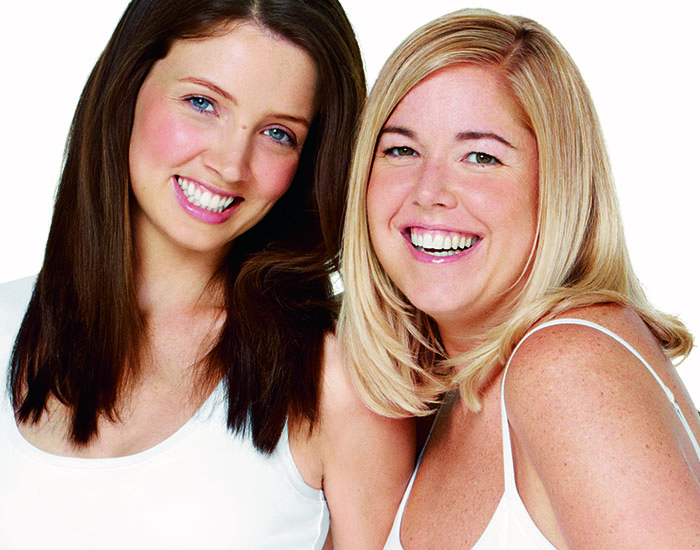
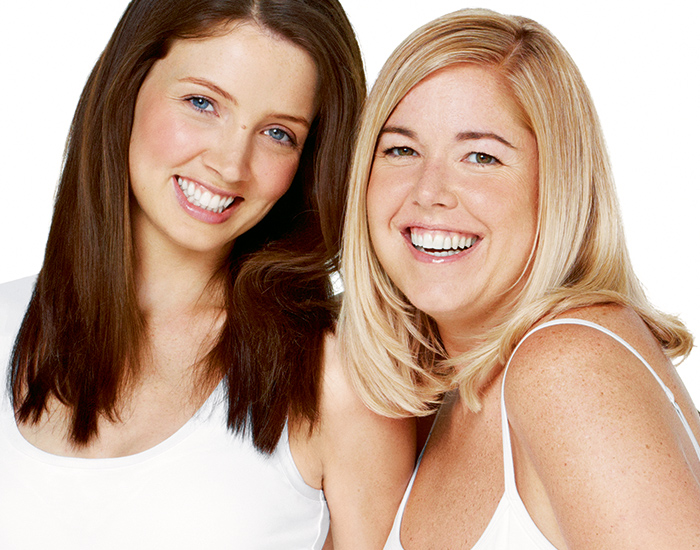
dove sustainability

diff --git a/src/pages/dove/sustainability.js b/src/pages/dove/sustainability.js
@@ -1,18 +1,32 @@
 import React from "react"
 import styled from 'styled-components'
 import SEO from '../../components/Seo/Seo'
-import DoveHeroImg from '../../assets/images/dove-hero-hp.jpg'
+import DoveSustainabilityHeroImg from '../../assets/images/dove-sustainability-hero.jpg'
+import DoveSustainabilityHeroImgMobile from '../../assets/images/dove-sustainability-hero-mobile.jpg'
 
 
 const Section = styled.section`
-    width:100%;
-    margin:auto;
-    padding-bottom:30px;
-    text-align: center;
+    max-width: 1200px;
+    margin:10px auto;
+    padding: 0 20px 30px;
 
-    @media (max-width: 692px) {
-      margin-bottom: -50px;
+    h1 {
+      margin: 30px 0 20px;
+      text-align: center;
+      color: #054281;
     }
+
+    h2 {
+      font-size: 1rem;
+      font-weight: bold;
+      color: #054281;
+    }
+
+    ul {
+      margin: 0 0 20px 20px;
+    }
+
+    
 `;
 
 const DoveHeroImage = styled.img`
@@ -21,21 +35,60 @@ const DoveHeroImage = styled.img`
     object-fit: cover;
 
     @media (max-width: 1200px) {
-        height: 400px;
+      height: 400px;
     }
 
     @media (max-width: 692px) {
-        margin-top: 50px;
+      margin-top: 50px;
+      content: url(${DoveSustainabilityHeroImgMobile});
+    }
+
+
+    
+`;
+
+const ImageSection = styled.div`
+  position: relative;
+
+  &:after {
+      content: '';
+      background-color: #fff;
+      position: absolute;
+      border-radius: 100%;
+      height: 80px;
+      width: 100%;
+      left: 50%;
+      transform: translateX(-50%);
+      bottom: -40px;
+    }
+
+    @media (max-width: 692px) {
+      &:after {
+        height: 40px;
+        bottom: -20px;
+      }
     }
 `;
 
 const SustainabilityPageDove = () => {
   return (
    <>
-   <SEO title="Dove Eesti" description="Dove Eesti."/>
+   <SEO title="Dove jätkusuutlikkus" description="Dove jätkusuutlikkus. Dove avaldab parimad võimalikku mõju nii keskkonnale, kust meie tooted pärinevad, kui ka inimestele, kes nendesse panustavad."/>
+   <ImageSection>
+      <DoveHeroImage src={DoveSustainabilityHeroImg} alt="Dove"/>
+   </ImageSection>
    <Section> 
-    <DoveHeroImage src={DoveHeroImg} alt="Dove"/> 
-    <p style={{margin: "50px"}}>Sustainability<br/>Lorem ipsum dolor sit amet, consectetur adipiscing elit, sed do eiusmod tempor incididunt ut labore et dolore magna aliqua. Ut enim ad minim veniam, quis nostrud exercitation ullamco laboris nisi ut aliquip ex ea commodo consequat. Duis aute irure dolor in reprehenderit in voluptate velit esse cillum dolore eu fugiat nulla pariatur. Excepteur sint occaecat cupidatat non proident, sunt in culpa qui officia deserunt mollit anim id est laborum.</p>
+      <h1>Dove jätkusuutlikkus</h1> 
+      <p>Dove mängib oma osa ülemaailmas liikumises madala süsinikusisaldusega majanduse loomiseks. Suurendame taastuvenergia kasutamist tootmises, kui liigume oma süsnikujalajälje vähendamise suunas. Selleks on Unilever seadnud mitmed jätkusuutlikkuse suurendamise eesmärgid. Üheks teaduspõhiseks eesmärgiks on vähendada meie toodete kasvuhoonegaaside mõju kogu nende elutsükli jooksuls vähemalt poole võrra aastaks 2030.</p>
+      <h2>Taastuvenergia kasutamine</h2>
+      <p>Soovime, et meie tehased töötaksid ainult taastuvenergia abil. Näiteks meie seebi tehased Ameerikas ja Saksamaal juba kasutavad 100% tuule- ja päikeseenergiat ning Indoneesia tehas läheb üle jätkusuutlikule biomassile. Samuti näiteks Aguai tehas, mis valmistab Brasiilia jaoks deodorante, töötab juba täielikult taastuvenergia abil, kasutab ära kõik tavajäätmed ning puhastab vihmavett, millega rahuldab 60% tehase vajadusest.</p>
+      <h2>Toodete transport</h2>
+      <p>Oleme pühendunud kasutama võimalikult palju keskkonnasõbralikke saatmisviise, otsides alati võimalusi süsinikdioksiidi hetimete vähendamiseks kogu maailmas. Uuenduslik tehnoloogia, madalma heitkogusega kütused ja maanteelt raudteele üleminek on vaid mõned viisid, kuid oleme suutnud vähendada oma keskkonnamõjusid ja luua säästavamat tootmist. Unilever kasutab kasvuhoonegaaside heitkoguse vähendamiseks ka uuenduslikku rakendust. Oleme läinud üle vedelale lämmastikgaasile, madalama heitkogusega kütustele, mis aitavad kaasa võrreldes diislikütusega vähendada selliseid hetmeid nagu süsinikdioksiid ja lämmastikoksiid. </p>
+      <h2>Süsinikujalajälje vähendamine</h2>
+      <p>Meie planeedi eest hoolitsemine ja süsinikdioksiidi heitmete vähendamine pole alati lihtne, kuid meie jaoks on see tohutult oluline. Seetõttu hoolitseme selle eest, et kasutaksime keskkonnastrateegiaid igas etapis – alates jätkusuutlikust tarneahelast ja parimate võimaluste leidmisest kliimamuutuse vastu võitlemiseks kuni taastusvenergiat kasutavate toodete väljatöötamiseni.</p>
+      <p>Oleme juba üle 25 aasta teinud koostööd Unileveri ohutuse ja keskkonna tagamise keskusega (SEAC), et välja töötada ja täisutada parimaid viise keskkonnamõju vähendamiseks. Ligikaudu 170 maailmatasemel teadlast teevad koostööd meie teadus- ja arendusmeeskondadega, et tagada meie toodete ohutus ja keskkonnasäästlikkus ning aidata kaitsta planeeti. Taastuvate energiaallikate, veekasutuse vähendamise ja tavajäätmete prügilasse viimise korral oleme täielikult pühendnud keskkonnakaitsele. Oleme pühendnud oma toodete keskkonnajalajälje vähendamisele kogu tarneahelas vähemalt poole võrra, alates koostisosade hankimisest kuni meie toodete kasutamise ja ülejääkide kõrvaldamiseni.</p>
+      <h2>Jätkusuutlikult hangitud koostisoad</h2>
+      <p>Kui hoolite planeedist ja inimestest, on meil midagi ühist. Dove on täielikult pühendnud jäätkusuutlike ja eetliste toodete loomisele. Sellepärast tähendab meie vastutustundliku hankimise poliitika ja säästva põllumajanduse koodeks, et töötame ainult koos tarnijatega, kes järgivad samu kõrgeid standardeid, mille kehtestame endale. Alates töötajate õigustest kuni maaõiguste kaitsemiseni. Soovime avaldada parimad võimalikku mõju nii keskkonnale, kust meie tooted pärinevad, kui ka inimestele, kes nendesse panustavad.</p>
     </Section>
     </>
   )

diff --git a/src/pages/dove/purpose.js b/src/pages/dove/purpose.js
@@ -13,11 +13,13 @@ const Section = styled.section`
     h1 {
       margin: 30px 0 20px;
       text-align: center;
+      color: #054281;
     }
 
     h2 {
       font-size: 1rem;
       font-weight: bold;
+      color: #054281;
     }
 
     ul {
@@ -96,7 +98,7 @@ const PurposePageDove = () => {
       <h2>Dove enesehinnangu projekt</h2>
       <p>Alates sotsiaalmeedia kuulsustest kuni täiusliku moemaailmani pommitavad meid ebareaalsed iluideed, mis võivad põhjustada madala enesehinnangu ja ärevuse tundemärke. Selle tõttu asutati Dove’i enesehinnangu projekti 2004. aastal, et aidata järgmiste põlvkondade naistel kasvatada rõõmu ja enesekindlust oma välimuse osas. Projekt pakub enesehinnangu õpet 8-17 aastaste noortele (peamiselt tüdrukutele) erinevate koolitundide, töötubade ja veebikanalite kaudu. Aastaks 2020 oleme jõudnud 60 miljoni nooreni, kes on saavutanud oma eesmärgi, kuid paljude noorteni on veel vaja jõuda. Iga kord, kui valite Dove’i toote, aitate järgmistel noortel jõuda enesekindlust suurendava tõe poole.</p>
       <p>Kõike meie enesehinnangu ressursid on välja töötatud ekspertidega konsulteerides. Teeme koostööd partnerorganisatsioonidega, kellel on ühised eesmärgid tüdrukute ja naiste enesekindluse tõstmiseks.</p>
-      <p style={{textAlign: "center", fontWeight: "bold", fontSize: "1.2rem"}}>Aitame noortel mõista, et nad on ilusad just sellisena, nagu nad on</p>
+      <p style={{textAlign: "center", fontWeight: "bold", fontSize: "1.2rem", color: "#054281"}}>Aitame noortel mõista, et nad on ilusad just sellisena, nagu nad on</p>
     </Section>
     </>
   )

diff --git a/src/components/HeaderDove/HeaderBurgerDove.js b/src/components/HeaderDove/HeaderBurgerDove.js
@@ -58,7 +58,7 @@ const HeaderBurgerDove = () => {
         }}>
           <Link className="dove-navbox-item" style={{transition: "all .4s linear .2s", left: navbarOpen ? "0" : "-100%",}} to="/dove/products" onClick={() => setNavbarOpen(!navbarOpen)}>Tooted</Link>
           <Link className="dove-navbox-item" style={{transition: "all .4s linear .3s", left: navbarOpen ? "0" : "-100%",}} to="/dove/sustainability" onClick={() => setNavbarOpen(!navbarOpen)}>Ettevõttest</Link>
-          <Link className="dove-navbox-item" style={{transition: "all .4s linear .4s", left: navbarOpen ? "0" : "-100%",}} to="/dove/purpose" onClick={() => setNavbarOpen(!navbarOpen)}>Meie eesmärk</Link>
+          <Link className="dove-navbox-item" style={{transition: "all .4s linear .4s", left: navbarOpen ? "0" : "-100%",}} to="/dove/purpose" onClick={() => setNavbarOpen(!navbarOpen)}>Jätkusuutlikkus</Link>
           <Link className="dove-navbox-item" style={{transition: "all .4s linear .5s", left: navbarOpen ? "0" : "-100%",}} to="/contact" onClick={() => setNavbarOpen(!navbarOpen)}>Kontakt</Link>
         </div>
     </nav>

diff --git a/src/components/HeaderDove/HeaderDove.js b/src/components/HeaderDove/HeaderDove.js
@@ -9,7 +9,7 @@ const HeaderDove = () => {
         <nav className="header-dove-nav">
             <div className="links-section-dove">
                 <Link to="/dove/products" activeStyle={{fontWeight: "700"}}>Tooted</Link>
-                <Link to="/dove/sustainability" activeStyle={{fontWeight: "700"}}>Ettevõttest</Link>
+                <Link to="/dove/sustainability" activeStyle={{fontWeight: "700"}}>Jätkusuutlikkus</Link>
                 <Link to="/dove"><img src={DoveLogo} alt="Dove Eesti jäätis logo"/></Link>
                 <Link to="/dove/purpose" activeStyle={{fontWeight: "700"}}>Meie eesmärk</Link>
                 <Link to="/contact" activeStyle={{fontWeight: "700"}}>Kontakt</Link>
